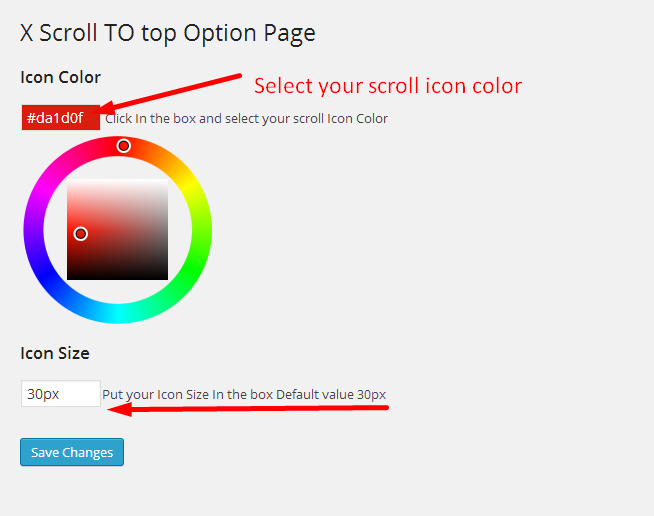
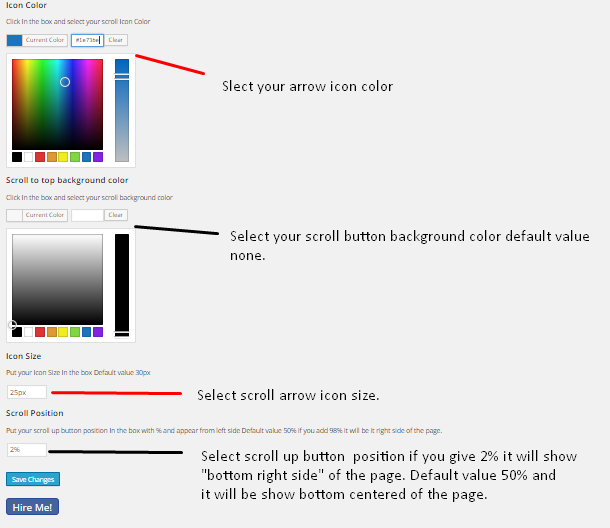
1. Update Iris color picker 2. Fix jQuery bug 3. Add two new features. 4. Tested with version 4.1
git-svn-id: https://plugins.svn.wordpress.org/x-scroll-to-top-responsive/trunk@1085781 b8457f37-d9ea-0310-8a92-e5e31aec5664

Changed region(s): [[0.0, 0.0, 0.9656, 0.9922], [0.2492, 0.124, 0.8098, 0.186]]

diff --git a/js/active.js b/js/active.js
@@ -16,13 +16,8 @@ jQuery(document).ready(function(){
 			});
 			
 			
-	jQuery("a#scrollUp").append("<i class='fa fa-chevron-up'></i>");
-	
-	
-	/*Active WordPress Color Picker */
-	 jQuery(document).ready(function(){
-		jQuery('#ilctabscolorpicker').hide();
-			jQuery('#ilctabscolorpicker').farbtastic('#x_color');
-			jQuery('#x_color').click(function(){jQuery('#ilctabscolorpicker').slideToggle()});
-		});
-}); 
+			jQuery('a#scrollUp').append("<i class='icon-up-open'></i>");
+			/*Active WordPress Color Picker */			
+			
+});
+	 

diff --git a/css/custom.css b/css/custom.css
@@ -1,4 +1,4 @@
-input[type=text].x_color, input[type=text].x_size{width:80px;}
+input[type=text].x_scroll_color, input[type=text].x_scroll_size, input[type=text].x_scroll_position{width:80px;}
 div.xauthor_link{}
 div.xauthor_link button{background-color: #47639E;border: 1px solid rgb(40, 77, 151);border-radius: 6px;}
 div.xauthor_link button a{text-decoration:none;padding:10px 5px;color:#fff;font-size:20px;}

diff --git a/plugin-hook.php b/plugin-hook.php
@@ -5,7 +5,21 @@ Plugin URI:
 Description: This plugin will add a scroll to top button on footer center.
 Author: Md. Jahidul Islam
 Author URI: https://www.elance.com/s/edit/jahid07/ 
-Version: 1.0
+Version: 2.0
+Copyright YEAR  PLUGIN_AUTHOR_NAME  (email : PLUGIN AUTHOR EMAIL)
+
+This program is free software; you can redistribute it and/or modify
+it under the terms of the GNU General Public License, version 2, as 
+published by the Free Software Foundation.
+
+This program is distributed in the hope that it will be useful,
+but WITHOUT ANY WARRANTY; without even the implied warranty of
+MERCHANTABILITY or FITNESS FOR A PARTICULAR PURPOSE.  See the
+GNU General Public License for more details.
+
+You should have received a copy of the GNU General Public License
+along with this program; if not, write to the Free Software
+Foundation, Inc., 51 Franklin St, Fifth Floor, Boston, MA  02110-1301  USA
 */
 
 /*Adding Latest jQuery from Wordpress*/
@@ -22,17 +36,16 @@ wp_enqueue_script('x-jquery-easing', X_PLUGIN_URL.'js/jquery.easing.min.js', arr
 
 wp_enqueue_script('x-jquery-main-scroll-up', X_PLUGIN_URL.'js/jquery.scrollUp.min.js', array('jquery'));
 wp_enqueue_script('x-jquery-active', X_PLUGIN_URL.'js/active.js', array('jquery'));
+wp_enqueue_style( 'wp-color-picker' );
+wp_enqueue_script( 'my-script-handle', plugins_url('js/my-script.js', __FILE__ ), array( 'wp-color-picker' ), false, true );
 
 
 
 wp_enqueue_style('x-scroll-plugin-css', X_PLUGIN_URL.'css/custom.css');
+wp_enqueue_style('x-scroll-plugin-fontello-css', X_PLUGIN_URL.'css/fontello.css');
 
 //Register color picker script
-add_action('init', 'x_farbtastic_script');
-function x_farbtastic_script() {
-  wp_enqueue_style( 'farbtastic' );
-  wp_enqueue_script( 'farbtastic' );
-}
+
 
 //register a sub menu
 function x_scroll_option() {
@@ -44,8 +57,10 @@ function x_scroll_option() {
 
 function x_activate() {
 	
-	add_option('x_color','#1518f3');
-	add_option('x_size','30px');
+	add_option('x_scroll_color','#1e73be');
+	add_option('x_scroll_size','25px');
+	add_option('x_field_bg','rgba(221, 51, 51, 0)');
+	add_option('x_scroll_position','50%');
 }
 
 	
@@ -58,8 +73,10 @@ add_action('wp_head', 'x_add_head');
 //Register function
 function register_x_scroll_settings() {
 	//register our settings
-	register_setting( 'x-settings-group', 'x_color' );
-	register_setting( 'x-settings-group', 'x_size' );
+	register_setting( 'x-settings-group', 'x_scroll_color' );
+	register_setting( 'x-settings-group', 'x_scroll_size' );
+	register_setting( 'x-settings-group', 'x_field_bg' );
+	register_setting( 'x-settings-group', 'x_scroll_position' );
 }
 
 
@@ -67,30 +84,35 @@ function register_x_scroll_settings() {
 
 function x_add_head() {
 	
-	$color = get_option('x_color');
-	$textSize = get_option('x_size');
+	$color = get_option('x_scroll_color');
+	$textSize = get_option('x_scroll_size');
+	$backgroundField = get_option('x_field_bg');
+	$ScrollPosition = get_option('x_scroll_position');
 	
 	 echo "
 	
-	<style type='text/css'>
-		@import url('http://maxcdn.bootstrapcdn.com/font-awesome/4.1.0/css/font-awesome.min.css');
+	<style type='text/css'>		
 			a#scrollUp {
 				font-size:$textSize;	
 				bottom: 20px;
-				right:50%;
+				right:$ScrollPosition;
 				color:$color;
+				background:$backgroundField;
+				padding: 2px 2px 5px 2px;
+				border-radius: 5px;
 			}
-	</style>
+	</style>	
 	
 	";	
 
 
 }
+
 //display setting page
 
 function x_display_submenu_main_options(){
 	?>
-		<div class="wrap">
+		<div style="width: 90%;" class="wrap">
 			<?php screen_icon(); ?>
 			<h2 class="x">X Scroll TO top Option Page</h2>
 			<form action="options.php" method="post">
@@ -98,24 +120,47 @@ function x_display_submenu_main_options(){
 					<tr valign="top">
 					  <th scope="row">
 						<h3>Icon Color</h3>
+						<p>Click In the box and select your scroll Icon Color</p>
+					  </th>
+					  <td>						
+						<label for="x_scroll_color"><input type="text" class="x_scroll_color x-scroll-color-field" id="x_scroll_color" name="x_scroll_color" value="<?php echo get_option('x_scroll_color'); ?>"/></label>						
+					  </td>
+					</tr>
+					<tr valign="top">
+					  <th scope="row">
+						<h3>Scroll to top background color</h3>
+						<p>Click In the box and select your scroll background color</p>
 					  </th>
 					  <td>
-						<label for="x_color"><input type="text" class="x_color" id="x_color" name="x_color" value="<?php echo get_option('x_color'); ?>"/> Click In the box and select your scroll Icon Color</label>
-						<div id="ilctabscolorpicker"></div>
+						<label for="x_field_bg"><input type="text" class="x_field_bg x-scroll-color-field" id="x_field_bg" name="x_field_bg" value="<?php echo get_option('x_field_bg'); ?>"/> </label>
 					  </td>
 					</tr>
 					
 					<tr valign="top">
 					  <th scope="row">
 						<h3>Icon Size</h3>
+						<p>Put your Icon Size In the box Default value 30px</p>
 					  </th>
 					  <td>
-						<label for="x_size"><input type="text" class="x_size" id="x_size" name="x_size" value="<?php echo get_option('x_size'); ?>"/>Put your Icon Size In the box Default value 30px</label>
+						<label for="x_scroll_size"><input type="text" class="x_scroll_size" id="x_scroll_size" name="x_scroll_size" value="<?php echo get_option('x_scroll_size'); ?>"/></label>
+					  </td>
+					</tr>
+					
+					<tr valign="top">
+					  <th scope="row">
+						<h3>Scroll Position</h3>
+						<p>Put your scroll up button position In the box with % and appear it will from left side  Default value 50% it will be show bottom centred of the page if you add 2% it will be show bottom right side of the page.</p>
+					  </th>
+					  <td>
+						<label for="x_scroll_position"><input type="text" class="x_scroll_position" id="x_scroll_position" name="x_scroll_position" value="<?php echo get_option('x_scroll_position'); ?>"/></label>
 					  </td>
 					</tr>
 					
 					
+					
+					
 				<?php submit_button(); ?>
+				
 				<div class="xauthor_link">
 					<button><a target="blank" href="https://www.elance.com/s/edit/jahid07/">Hire Me!</a></button>
 				</div>
@@ -123,7 +168,6 @@ function x_display_submenu_main_options(){
 		</div>
 <?php
 }
-
 
 
 ?>
